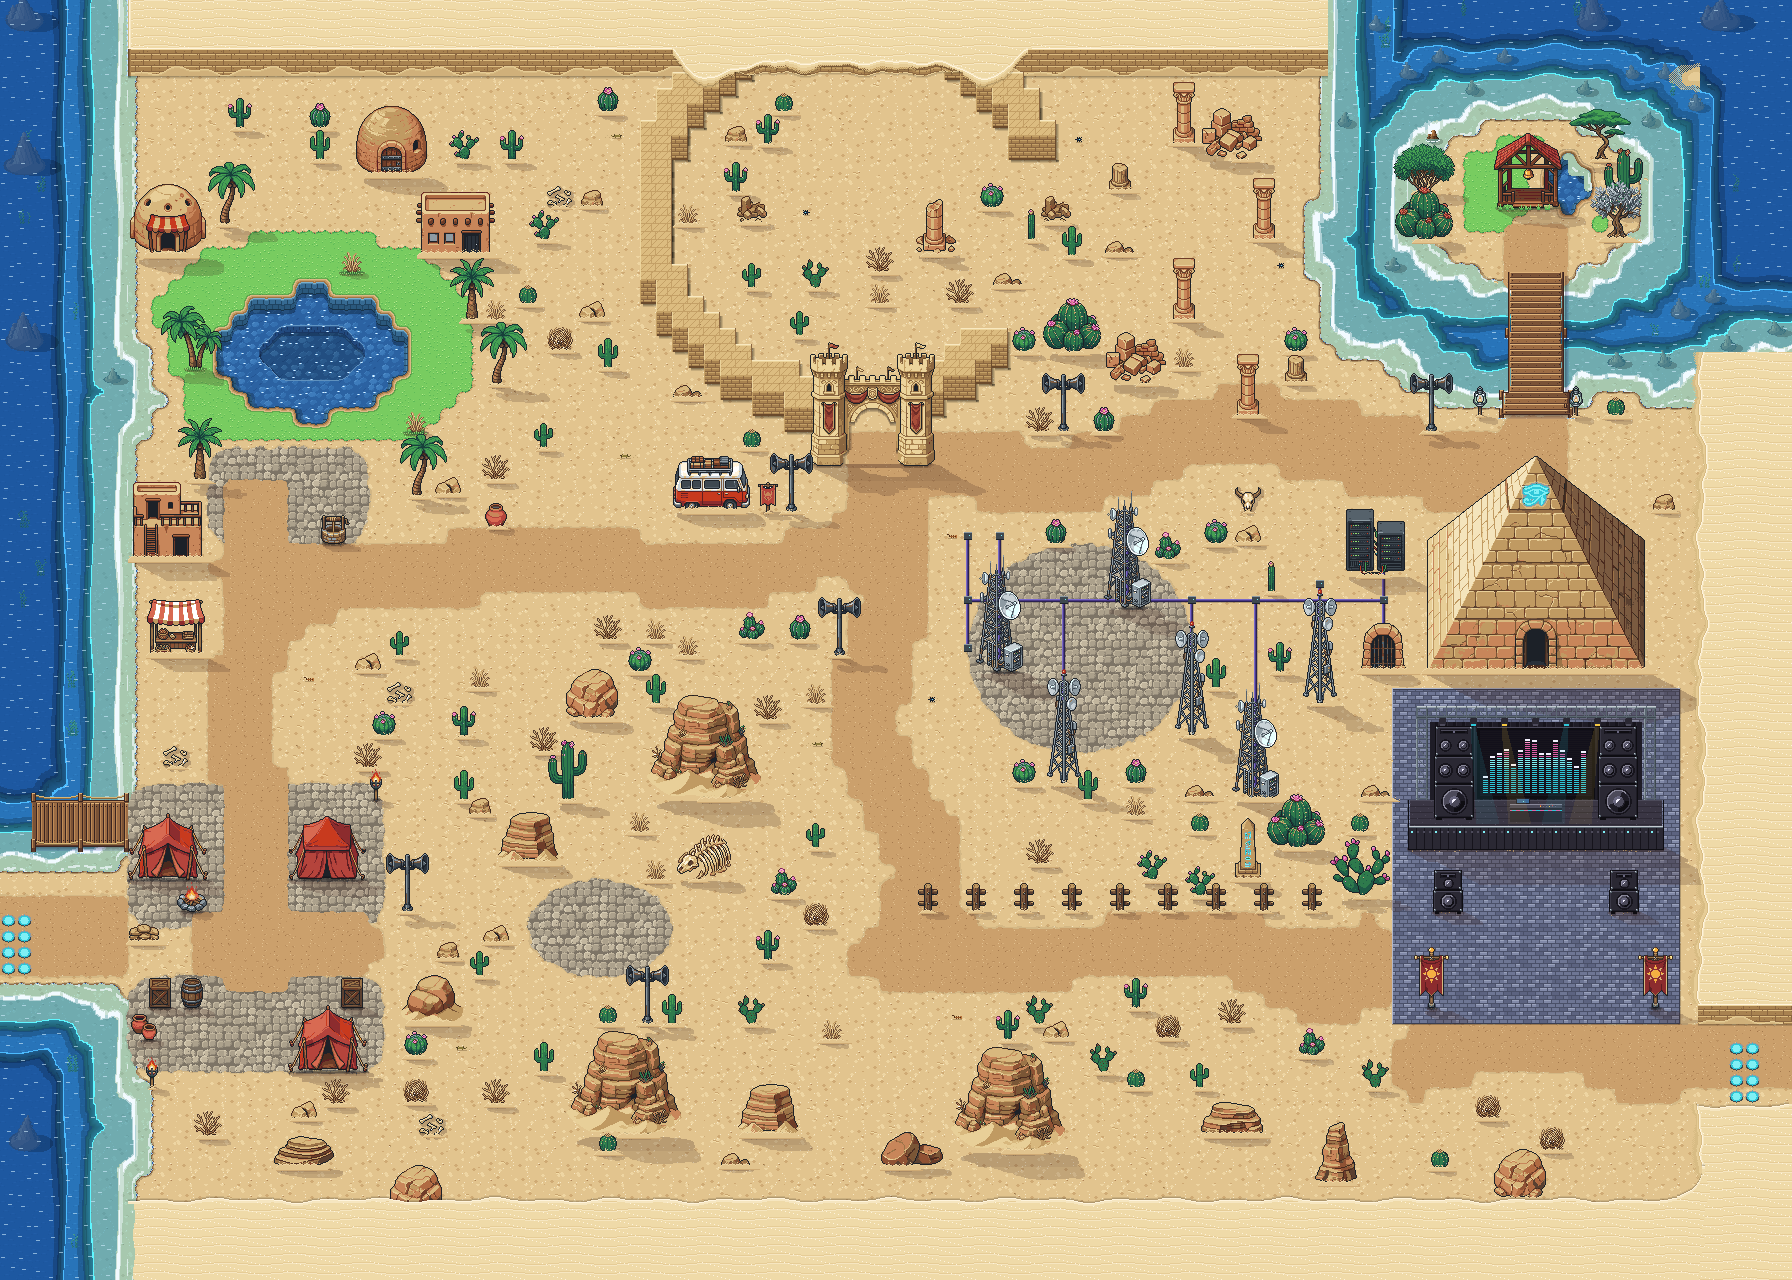
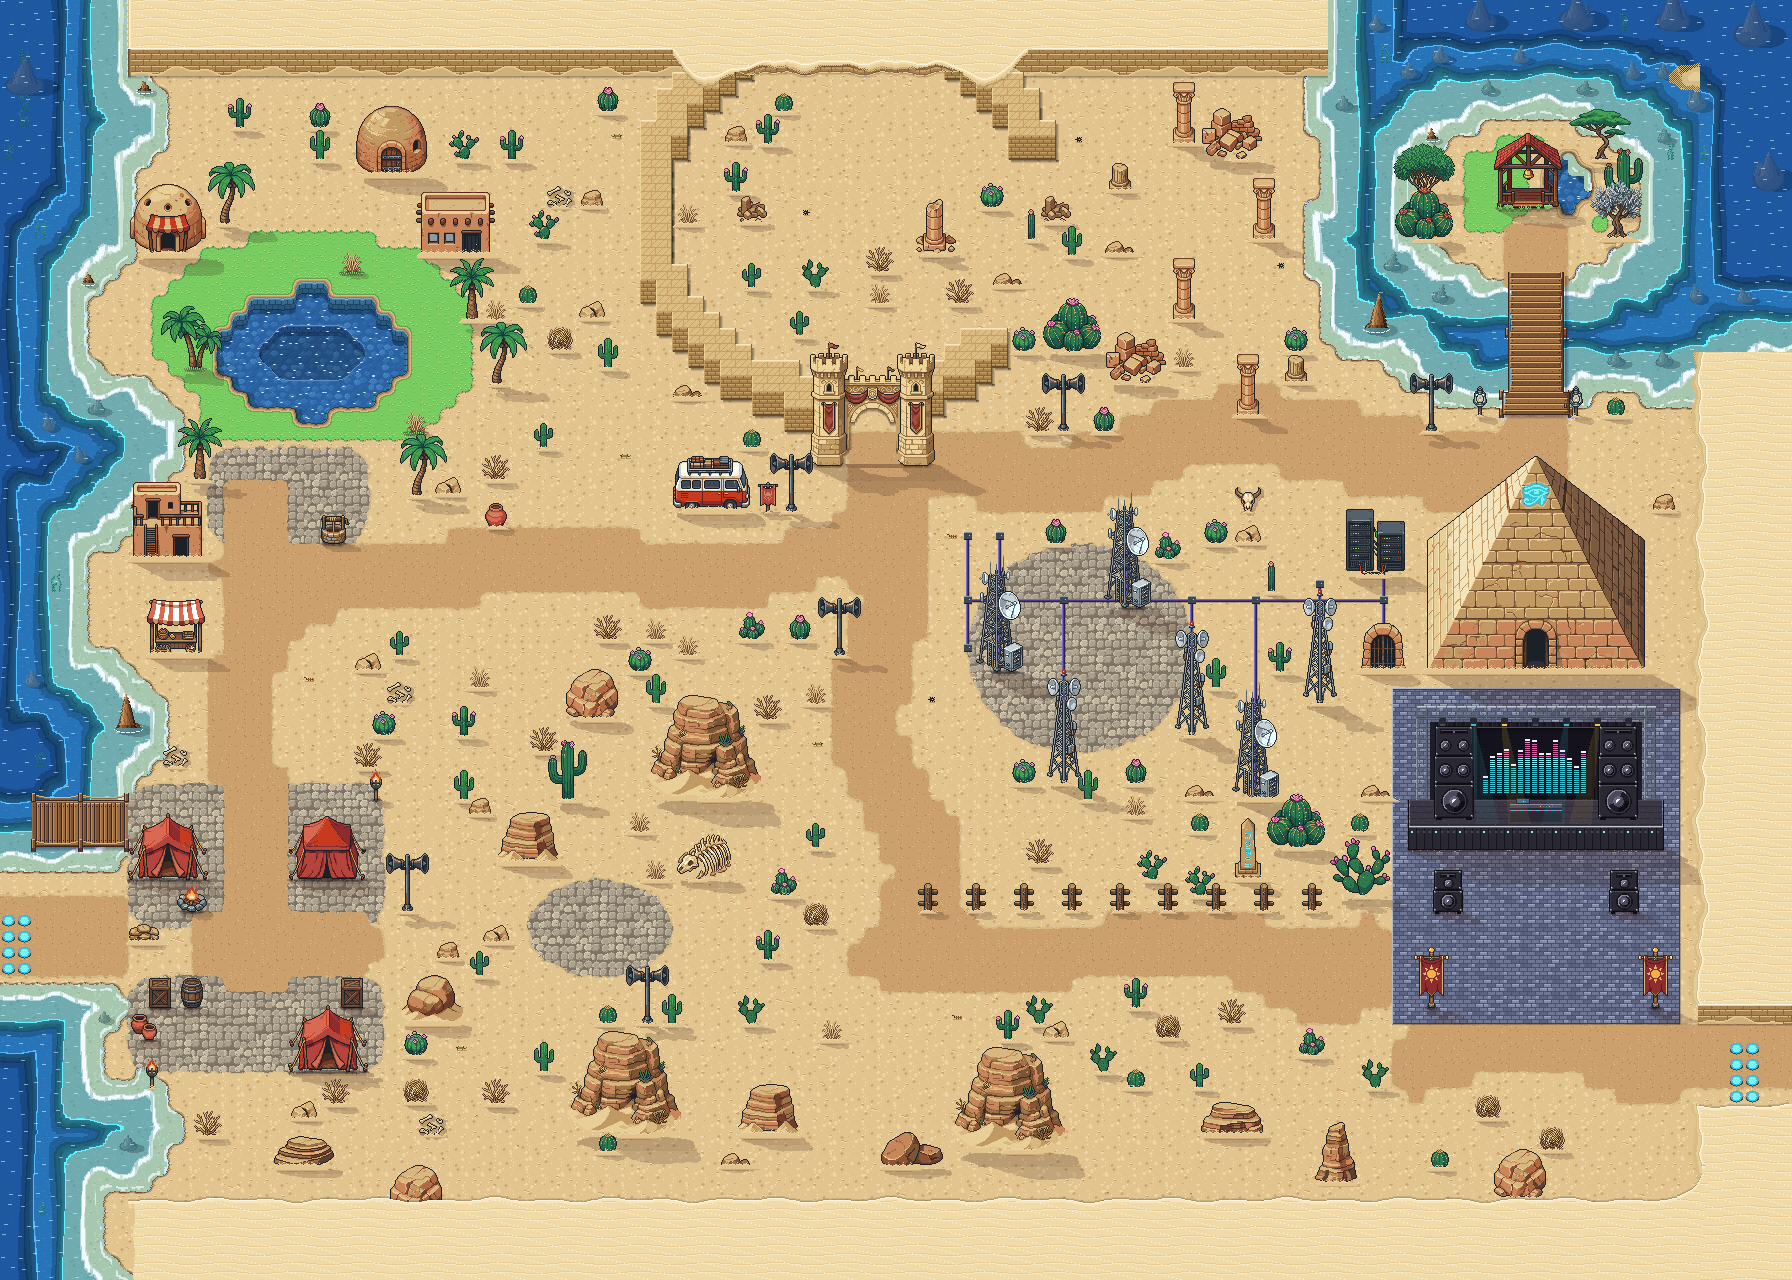
Karte 03: natuerliche Kueste links und an der Lagune (Buchten, Landzungen); PixelLab-Gruppen fuer neue Palmen
Claude-Session: https://claude.ai/code/session_01SaoYHKhnro4LFcPJqjaPsq

diff --git a/tools/pixellab_objekte.py b/tools/pixellab_objekte.py
@@ -595,6 +595,24 @@ OBJEKTGRUPPEN_K7 = {
 }
 
 OBJEKTGRUPPEN_K3 = {
+    'k3_palmen_a': {'size': 96, 'items': [
+        'tall date palm tree with a slightly curved ringed trunk and a full crown of long green fronds, clusters of orange dates, perfectly straight front elevation view, facing the camera head-on, no perspective, no isometric, flat orthographic, classic 2D handheld RPG style',
+        'tall straight coconut palm tree with a lush crown of fronds and a few coconuts, perfectly straight front elevation view, facing the camera head-on, no perspective, no isometric, flat orthographic, classic 2D handheld RPG style',
+        'leaning palm tree with a curved trunk bending to the right, big drooping fronds, perfectly straight front elevation view, facing the camera head-on, no perspective, no isometric, flat orthographic, classic 2D handheld RPG style',
+        'group of two palm trees of different heights growing from one base, perfectly straight front elevation view, facing the camera head-on, no perspective, no isometric, flat orthographic, classic 2D handheld RPG style',
+    ]},
+    'k3_palmen_b': {'size': 96, 'items': [
+        'group of three palm trees, tall middle one, two smaller beside it, perfectly straight front elevation view, facing the camera head-on, no perspective, no isometric, flat orthographic, classic 2D handheld RPG style',
+        'young short palm tree with a thick trunk and wide fronds, perfectly straight front elevation view, facing the camera head-on, no perspective, no isometric, flat orthographic, classic 2D handheld RPG style',
+        'fan palm tree with round fan shaped leaves on a straight trunk, perfectly straight front elevation view, facing the camera head-on, no perspective, no isometric, flat orthographic, classic 2D handheld RPG style',
+        'tall slender palm tree with a small crown of fronds high up, perfectly straight front elevation view, facing the camera head-on, no perspective, no isometric, flat orthographic, classic 2D handheld RPG style',
+    ]},
+    'k3_palmen_c': {'size': 96, 'items': [
+        'bushy desert palm with fronds down to the ground, no visible trunk, perfectly straight front elevation view, facing the camera head-on, no perspective, no isometric, flat orthographic, classic 2D handheld RPG style',
+        'old palm tree with some dry brown fronds hanging below the green crown, perfectly straight front elevation view, facing the camera head-on, no perspective, no isometric, flat orthographic, classic 2D handheld RPG style',
+        'palm tree with a double bent trunk and a dense crown, perfectly straight front elevation view, facing the camera head-on, no perspective, no isometric, flat orthographic, classic 2D handheld RPG style',
+        'small palm tree cluster with dry grass at its base, perfectly straight front elevation view, facing the camera head-on, no perspective, no isometric, flat orthographic, classic 2D handheld RPG style',
+    ]},
     'k3_klein': {'size': 32, 'items': [
         'small green saguaro cactus', 'tall green saguaro cactus with two arms', 'small round barrel cactus', 'prickly pear cactus',
         'dry desert bush', 'small dry grass tuft', 'animal skull', 'scattered bones', 'small sandstone rock', 'two small desert rocks',

diff --git a/tools/karte03_v11.py b/tools/karte03_v11.py
@@ -37,9 +37,15 @@ def main():
     # Grenzen nach Nutzer-Skizze: links Meer (bis zum unteren Rand), oben Sandwand bis vor die Lagune,
     # oben rechts Meer um die Insel bis zum Kartenrand, rechts unterhalb der Lagune wieder Sandwand
     kueste = [
-        {'art': 'meer', 'r': [0, 0, 7, 79]}, {'art': 'meer', 'e': [7.5, 24, 1.6, 4]}, {'art': 'meer', 'e': [7.5, 70, 1.5, 4]},
+        {'art': 'meer', 'r': [0, 0, 7, 79]},
+        # natuerliche Kueste links: Buchten ins Land, Landzungen ins Meer (Haeuser, Steg, Teleporter ausgespart)
+        {'art': 'meer', 'e': [8.4, 7, 1.4, 3]}, {'art': 'meer', 'e': [8.6, 27, 1.7, 4.5]},
+        {'art': 'meer', 'e': [8.3, 45, 1.4, 3]}, {'art': 'meer', 'e': [8.5, 70, 1.6, 4]},
+        {'art': 'sand', 'e': [6.5, 20, 1.8, 3.5]}, {'art': 'sand', 'e': [6.2, 37, 2.0, 4]},
+        {'art': 'sand', 'e': [6.6, 65.5, 1.6, 2.5]}, {'art': 'sand', 'e': [6.8, 76, 1.5, 3]},
         {'art': 'sand', 'r': [0, 54, 8, 61]},                       # Landzunge zum Teleporter links
         {'art': 'meer', 'r': [83, 0, 111, 21]}, {'art': 'meer', 'e': [104, 21, 7, 3.2]},
+        {'art': 'meer', 'e': [82.6, 6, 1.4, 3]}, {'art': 'sand', 'e': [84.2, 14, 1.4, 2.6]},
     ]
     for z in boden:                                                 # Pflasterflaechen am Zeltlager nicht ins Meer
         if z['art'] == 'kies' and z.get('r', [None])[0] == 6:
